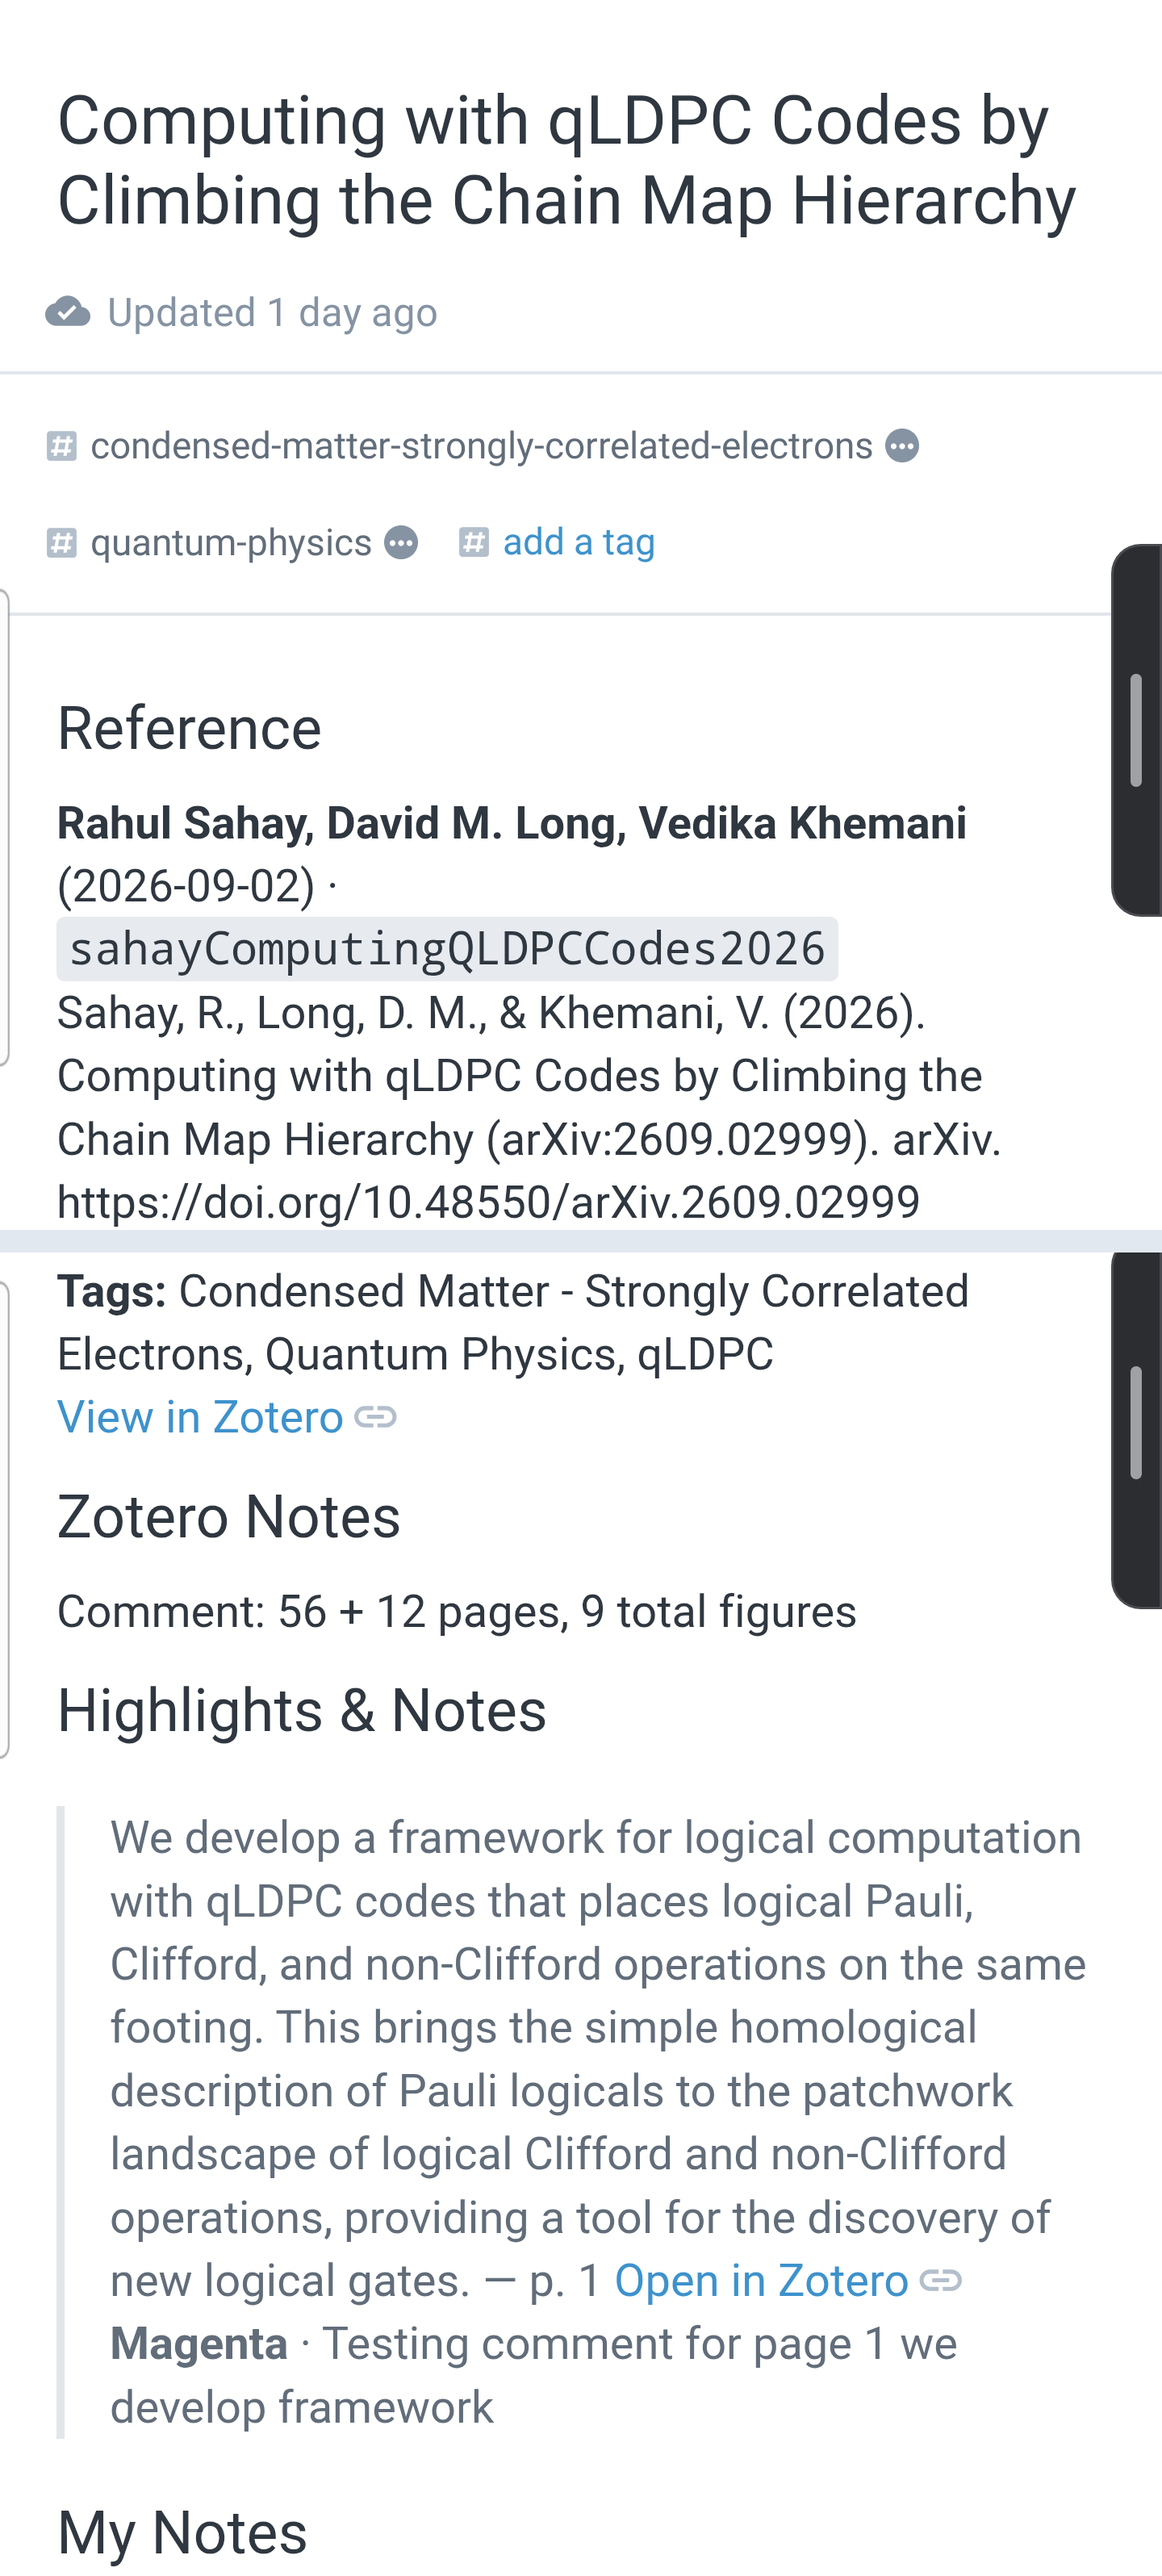
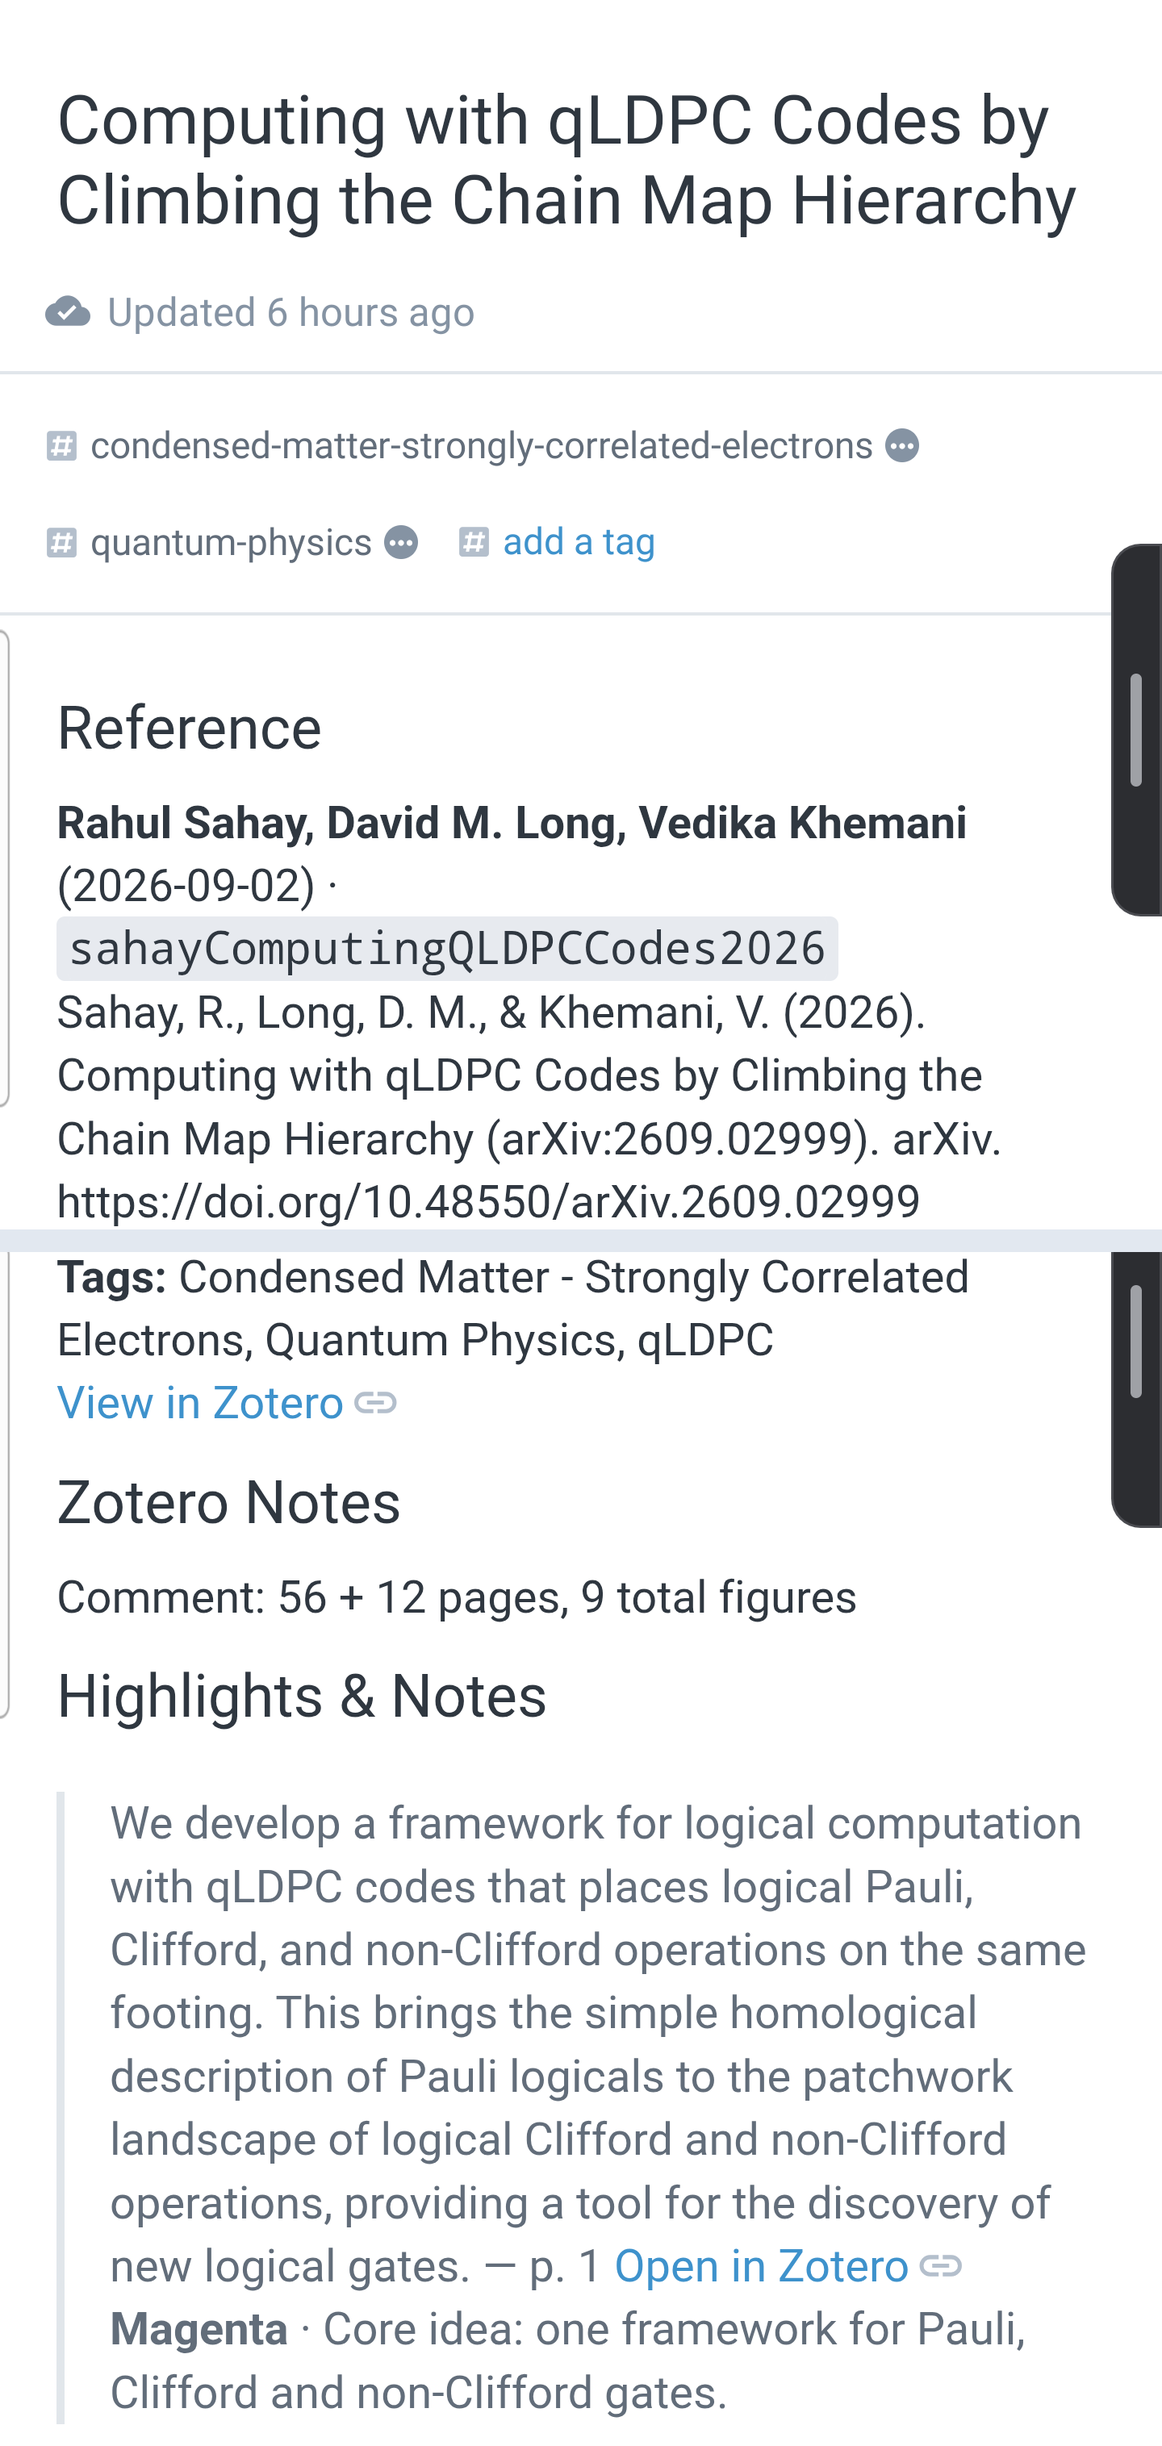
Retake both item-note screenshots without the test text
The highlight's comment was a test string ("Testing comment for page
1...") and My Notes held "My Test Line". The comment was replaced in
Zotero and synced; the test line was removed from the note. Both the
desktop and phone item-note shots were recaptured and swapped into the
plugin note's instructions cell.

Checked on a fresh load: nine images in order, the new ones in the old
ones' places, no markers, no error badge, and the code block still
byte-for-byte dist/plugin-paste.js.

diff --git a/docs/plugin-instructions.md b/docs/plugin-instructions.md
@@ -240,6 +240,7 @@ instead of embedding it.
 | `04-configure-sync.png` | Configure sync, a collection and a tag ticked |
 
 Neither Configure sync shot was submitted — the boxes were ticked for the picture and
-the dialog cancelled, so the real filter is unchanged. Both item-note shots still show
-a test comment on the highlight ("Testing comment for page 1…"); retake after editing
-it in Zotero if the listing should look clean.
+the dialog cancelled, so the real filter is unchanged. Both item-note shots were retaken
+2026-10-22 after the highlight's test comment was replaced in Zotero ("Core idea: one
+framework for Pauli, Clifford and non-Clifford gates.") and a test line removed from My
+Notes; the phone one now ends after the highlight. Both are swapped into the plugin note.
